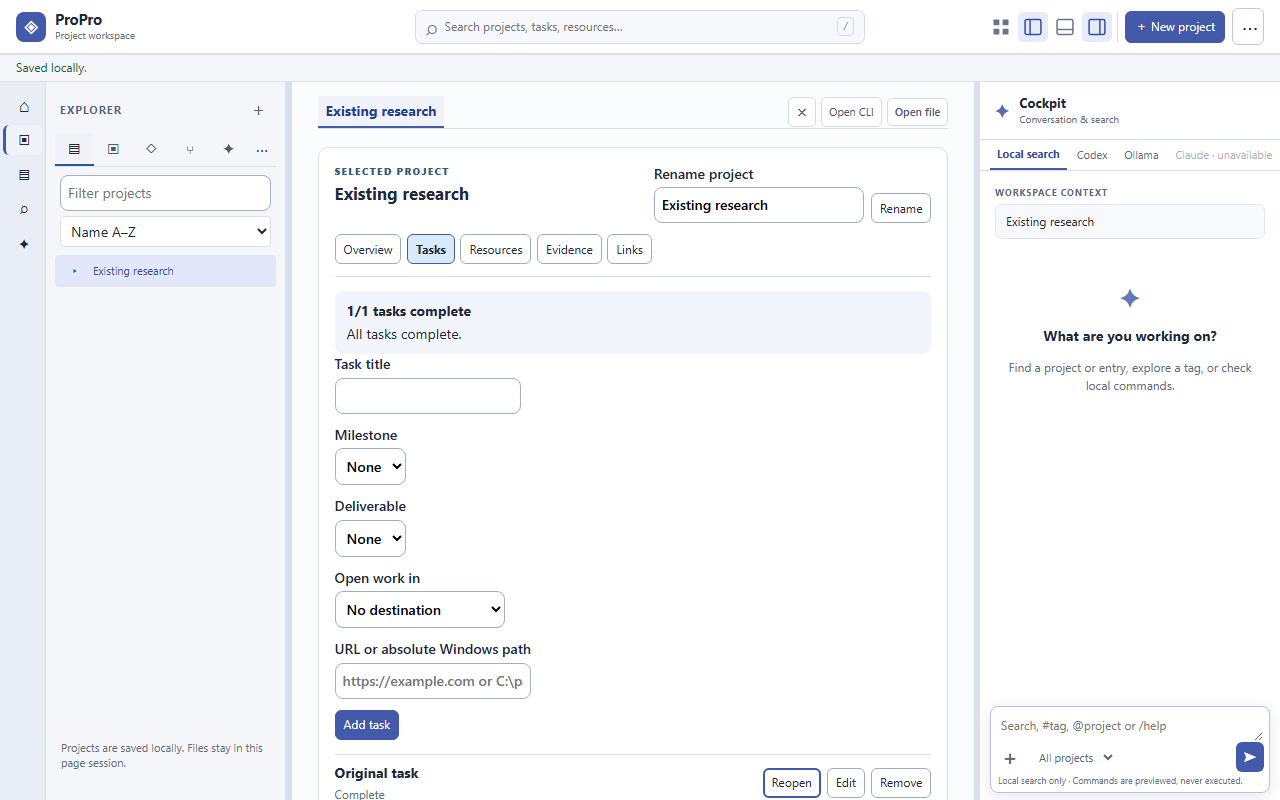
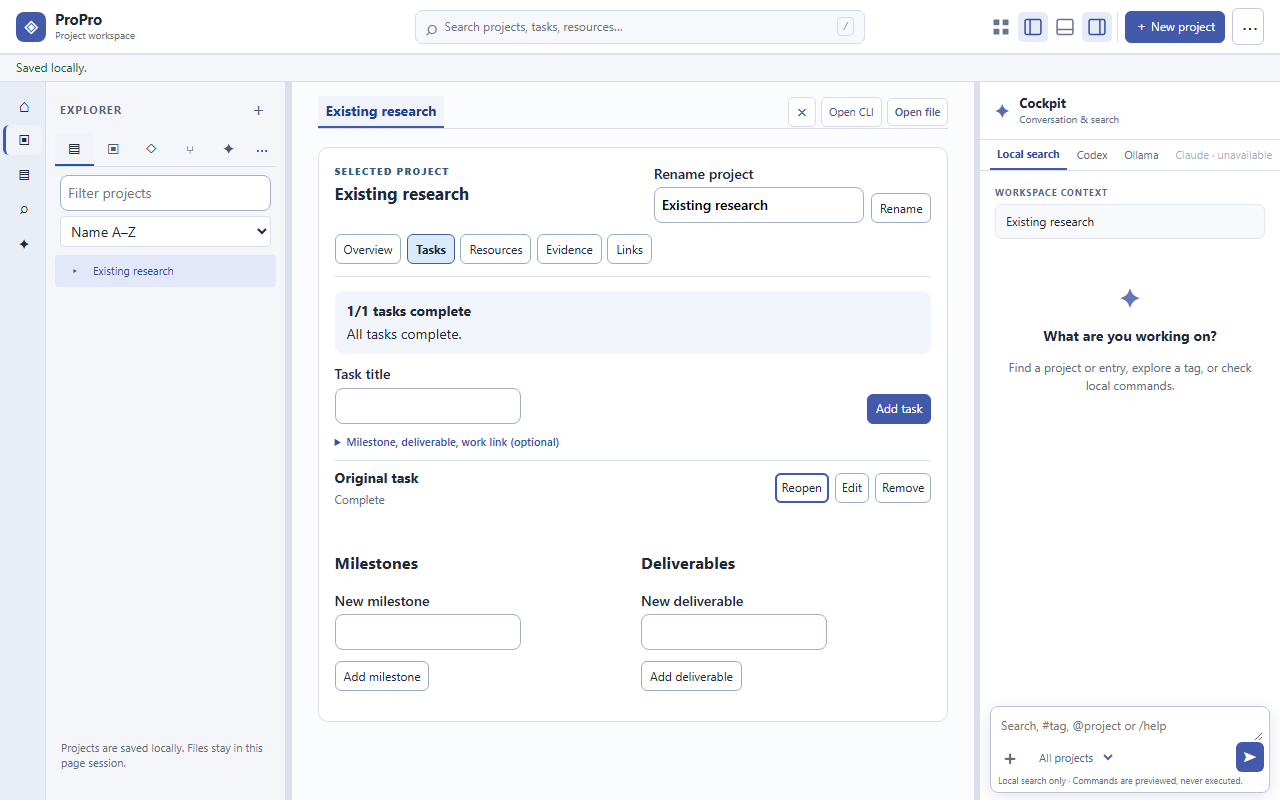
Compact task capture layout
Change-Level: RUN
Dev-Docs: updated
Validation: npm test; targeted Chromium task tests and axe checks

diff --git a/styles.css b/styles.css
@@ -144,6 +144,22 @@ body { background:#f5f6fa; }
 .task-associations section { min-width:0; }
 .task-associations li { overflow-wrap:anywhere; }
 @media(max-width:600px) { .task-associations { grid-template-columns:1fr; } }
+.task-create-form { display:grid!important; grid-template-columns:minmax(0,1fr) auto; align-items:end; gap:7px 8px!important; margin:10px 0 0; }
+.task-create-form > label { min-width:0; }
+.task-create-form > label input { width:100%; }
+.task-create-form > button { grid-column:2; grid-row:1; white-space:nowrap; }
+.task-create-form > .task-options { grid-column:1/-1; grid-row:2; }
+.task-options { width:100%; min-width:0; }
+.task-options summary { width:fit-content; padding:3px 0; color:#354c9a; font-size:11px; font-weight:600; cursor:pointer; }
+.task-options summary:focus-visible { outline:2px solid var(--blue); outline-offset:2px; }
+.task-option-fields { display:grid; grid-template-columns:repeat(2,minmax(0,1fr)); gap:8px; padding:8px 0 2px; }
+.task-option-fields label { min-width:0; font-size:11px; }
+.task-option-fields label:last-child { grid-column:1/-1; }
+.task-option-fields input,.task-option-fields select { width:100%; min-width:0; font-size:12px; }
+.task-list { margin:8px 0; }
+.task-list .task-row { padding:7px 0; }
+.task-list .task-actions button { padding:4px 6px; }
+@media(max-width:600px) { .task-option-fields { grid-template-columns:1fr; } .task-option-fields label:last-child { grid-column:auto; } }
 .entry-list li > span { flex:1 1 220px; min-width:0; }
 .entry-list small { display:block; color:var(--muted); overflow-wrap:anywhere; }
 .empty { padding:25px; border-radius:10px; }

diff --git a/docs/TASK-MANAGEMENT.md b/docs/TASK-MANAGEMENT.md
@@ -13,3 +13,7 @@ The slice does not implement milestone or deliverable editing, deadlines, depend
 Tasks may now hold the same optional `{kind,locator}` connection as project Resources. The Tasks form accepts a URL, local file, folder, or Windows application, and the first open task with a connection exposes an **Open next action** button. Each connected task also has an **Open work** button. These actions only open the referenced destination; completing a task remains a separate explicit action. Existing version 1 records and exports remain valid, while imports reject invalid connections before replacing saved data. This is a general ProPro handoff to the app that owns the work, not a second article store or approval system.
 
 For Governance Commons, the local editorial Portal is currently at `http://127.0.0.1:4177/` when separately started and configured. It can create a candidate-backed draft and submit that revision for review. The local pilot does not yet provide end-to-end article editing, independent approval, or public website publishing from its UI. Linking a ProPro task to the Portal does not grant publication authority or prove that an article is live.
+
+## Compact task capture (2026-11-08)
+
+The task title and Add button now share one row. Milestone, deliverable, and work destination fields remain available behind an optional disclosure, which opens automatically when editing a task that already uses them. The task list begins higher in the project view; the underlying task records and version 1 export format are unchanged.
